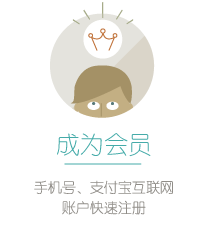
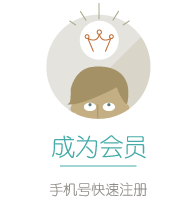
release 2015-05-27 0.2

diff --git a/src/main/webapp/static/mb_interest.css b/src/main/webapp/static/mb_interest.css
@@ -24,31 +24,18 @@
 
 #mi_main_title1 {
   position:absolute;
-  color:#4cb3b1;
-  font-size:24px;
-  height:25px;
-  line-height:25px;
-  width:104px;
+  height:154px;
+  width:457px;
   top:30px;
+  background:url("/static/mobile/images/mi_main_title1.png") no-repeat center center;
+  background-size:100% 100%;
 
 }
 #mi_main_title2 {
   position:absolute;
-  top:120px;
-  line-height:32px;
-  height:64px;
-  width:500px;
-  font-size:30px;
-  color:#4cb3b1;
-  text-align:center;
-  
-  
-}
-#mi_main_title3 {
-  position:absolute;
-  width:464px;
-  height:42px;
-  background:url("/static/mobile/images/mbint_title3.png") no-repeat center center;
+  width:460px;
+  height:40px;
+  background:url("/static/mobile/images/mi_main_title2.png") no-repeat center center;
   background-size:100% 100%;
   top:343px;
   
@@ -74,27 +61,28 @@
 #mi_main_button2 { 
   position:absolute;
   top:0px;
-  height:48px;
+  height:47px;
   right:30px;
-  background:url("/static/mobile/images/mbint_rest.png") no-repeat center center;
-  background-size:100% 100%;
-  width:106px;
+  background:url("/static/mobile/images/mbint_rest.png") no-repeat;
+  background-size:172px 47px;
+  width:172px;
 }
 #mi_main_button1 { 
   position:absolute;
-  height:48px;
+  height:47px;
   top:0px;
   left:30px;
-  background:url("/static/mobile/images/mbint_submit.png") no-repeat center center;
-  background-size:100% 100%;
-  width:156px;
+  background:url("/static/mobile/images/mbint_submit.png") no-repeat;
+  background-size:172px 47px;
+  width:172px;
 }
 input {
+ font-size:20px;
  position:absolute;
- top:0px;
+ top:-10px;
  right:0px;
  width:360px;
- height:25px;
+ height:35px;
  background:#dbecec;
 }
 
@@ -175,21 +163,19 @@ input {
 
 #mi_contact_info {
   position:absolute;
-  width:441px;
-  height:408px;
-  top:0px;
+  width:540px;
+  height:991px;
+  top:10px;
+  right:0px;
   background:url("/static/mobile/images/contact_info.png") no-repeat 0px 0px;
-  background-size:441px 408px;
-
-
+  background-size:540px 991px;
 }
 
 #mi_contact_info_div {
   position:relative;
   width:100%;
-  height:812px;
-  background:url("/static/mobile/images/contact_info_div.png") no-repeat center center;
-  background-size:100% 100%;
+  height:1001px;
+  background:#dbecec;
   border:0px solid;
 }
 .mask_div {
@@ -205,4 +191,113 @@ input {
    height:20px;
    background:url('/static/images/trans_load.gif') no-repeat center center;
    background-size:100% 100%;
+}
+
+#mi_weixin_code_div {
+   position:absolute;
+   width:165px;
+   height:182px;
+   top:258px;
+   left:0px;
+   background:url('/static/mobile/images/mi_weixin_code_div.png') no-repeat center center;
+   background-size:100% 100%;
+}
+#mi_weixin_code {
+   position:absolute;
+   top:23px;
+   left:27px;
+   width:119px;
+   height:119px;
+   background:url('/static/mobile/images/mi_weixin_code.png') no-repeat center center;
+   background-size:100% 100%;
+   overflow:hidden;
+}
+
+#mi_weibo_code_div {
+   position:absolute;
+   top:258px;
+   left:302px;
+   width:165px;
+   height:182px; 
+   background:url('/static/mobile/images/mi_weibo_code_div.png') no-repeat center center;
+   background-size:100% 100%;
+}
+#mi_weibo_code{
+   position:absolute;
+   width:119px;
+   height:119px;
+   top:23px;
+   left:27px; 
+   background:url('/static/mobile/images/mi_weibo_code.png') no-repeat center center;
+   background-size:100% 100%;
+   overflow:hidden;
+}
+
+#fingerprint_div {
+   position:absolute;
+   top:523px;
+   left:146px;
+   width:149px;
+   height:149px;
+   background:url('/static/mobile/images/finger_print.png') no-repeat center center;
+   background-size:100% 100%;
+   overflow:hidden;
+}
+
+
+
+
+
+.sliding_bar {
+   width:100%;
+   height:5px;
+   background:#ccc;
+   top:0px;
+   position:absolute;
+}
+#popup_bar {
+  position:absolute;
+  bottom:0px;
+  width:640px;
+  height:260px;
+  background:#fff;
+  border:1px solid;
+  z-index:100;
+  display:none;
+  overflow:hidden;
+}
+
+#popup_bar > div {
+  position:relative;
+  height:260px;
+  width:640px;
+  background:#cccccc;
+  border:1px solid;
+}
+
+.popup_button {
+ position:absolute;
+ width:640px;
+ height:60px;
+ line-height:60px;
+ text-align:center;
+ font-size:24px; 
+ background:#fff;
+}
+
+.popup_button:hover {
+   background:#eee;
+}
+#pb_save {
+ top:0px;
+}
+#pb_savePic {
+ top:62px;
+
+}
+#pb_scanCode {
+ top:124px;
+}
+#pb_cancel {
+ bottom:0px;
 }

diff --git a/src/main/webapp/static/mb_index.css b/src/main/webapp/static/mb_index.css
@@ -54,8 +54,8 @@
   height:50%;
 }
 #feature_1{
-  width:201px;
-  height:229px;
+  width:195px;
+  height:217px;
   background:url("/static/mobile/images/feature_1.png") no-repeat center center; 
 }
 #feature_2_div {
@@ -66,8 +66,8 @@
   height:50%;
 }
 #feature_2{
-  width:201px;
-  height:229px;
+  width:195px;
+  height:217px;
   background:url("/static/mobile/images/feature_2.png") no-repeat center center; 
 }
 #feature_3_div {
@@ -79,8 +79,8 @@
   color:blue;
 }
 #feature_3{
-  width:201px;
-  height:229px;
+  width:195px;
+  height:217px;
   background:url("/static/mobile/images/feature_3.png") no-repeat center center; 
 }
 #feature_4_div {
@@ -91,8 +91,8 @@
   height:50%;
 }
 #feature_4{
-  width:201px;
-  height:229px;
+  width:195px;
+  height:217px;
   background:url("/static/mobile/images/feature_4.png") no-repeat center center; 
 }
 
@@ -120,3 +120,4 @@
   top:0px;
   background:#fff;
 }
+
